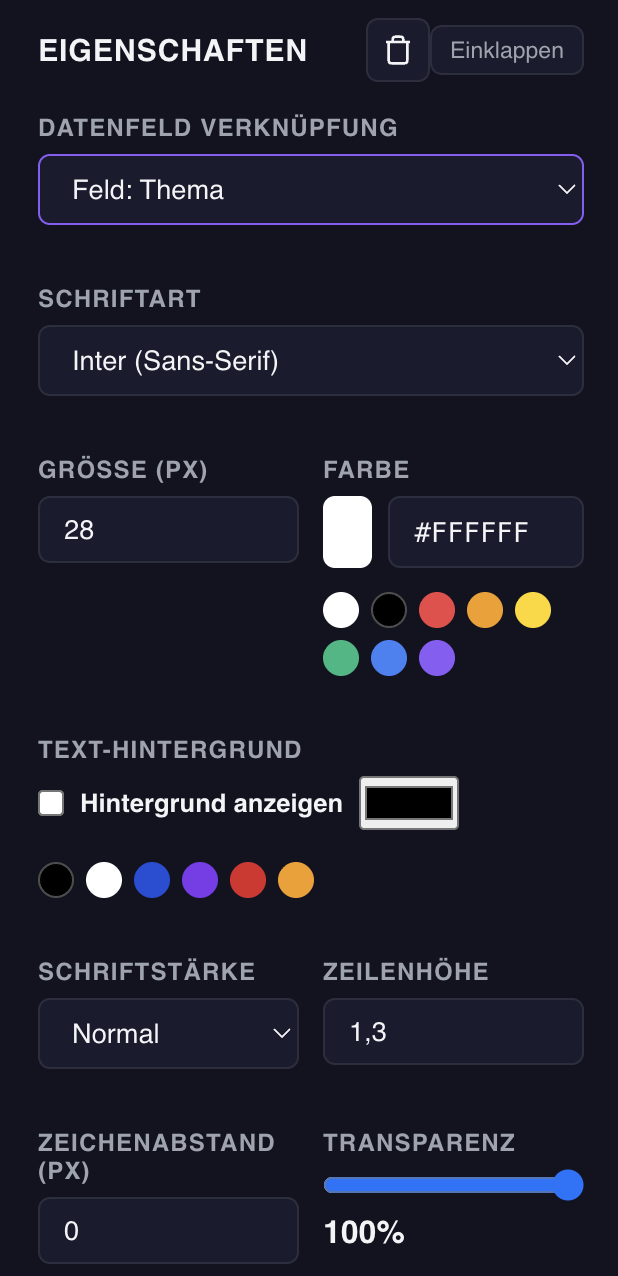
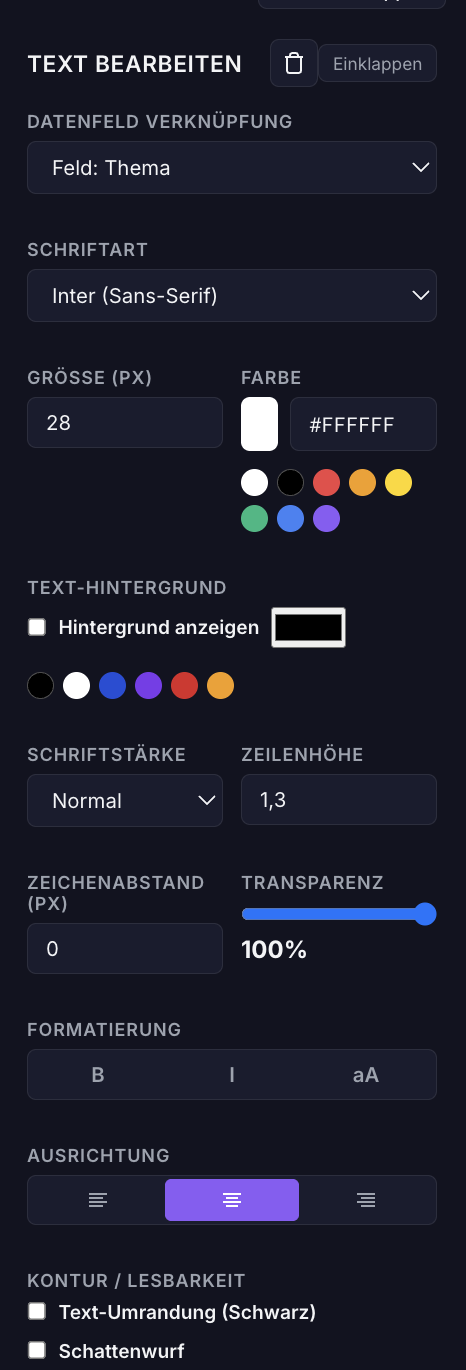
fix: publish updated text editing screenshot

diff --git a/index.html b/index.html
@@ -155,8 +155,8 @@
           </article>
           <article class="property-card">
             <div class="property-copy"><span>Text</span><h3>Datenfelder sichtbar gestalten.</h3><p>Verknüpfe Texte mit einer Datenspalte und lege Schrift, Farbe, Hintergrund, Abstände und Transparenz fest.</p></div>
-            <button class="preview-trigger property-shot" type="button" data-preview-src="./assets/text-properties.png" data-preview-title="Eigenschaften eines dynamischen Textfelds">
-              <img src="./assets/text-properties.png" alt="Texteigenschaften mit Datenfeld, Schriftart, Farben und Abständen">
+            <button class="preview-trigger property-shot" type="button" data-preview-src="./assets/text-properties.png" data-preview-title="Dynamischen Text bearbeiten">
+              <img src="./assets/text-properties.png" alt="Bereich Text bearbeiten mit Datenfeld, Schriftart, Farben, Formatierung und Ausrichtung">
             </button>
           </article>
           <article class="property-card video-property">

diff --git a/test-homepage.js b/test-homepage.js
@@ -43,6 +43,7 @@ const requiredText = [
   "Eigenschaften",
   "Clips präzise für die Serie vorbereiten.",
   "Clip trimmen und Video-Zuschnitt übernehmen",
+  "Dynamischen Text bearbeiten",
   "Export prüfen",
   "Impressum",
   "data-modal-open=\"imprint-modal\"",

diff --git a/README.md b/README.md
@@ -65,7 +65,7 @@ Es werden ausschließlich Bilder aus `homepage/assets/` verwendet:
 - `music-upload.png`: Upload unterstützter Musikformate
 - `music-controls.png`: Wiedergabe, Lautstärke, Track-Ausschnitt und Timeline
 - `image-properties.png`: Transformation, Zuschnitt und Farbkorrektur
-- `text-properties.png`: Datenfeldverknüpfung, Schrift und Textdarstellung
+- `text-properties.png`: Bereich „Text bearbeiten“ mit Datenfeldverknüpfung, Schrift, Formatierung und Textdarstellung
 - `video-controls.png`: Transformation, Wiedergabe, Ton, Loop und Lautstärke
 - `video-properties.png`: Clip-Trimmen, Video-Zuschnitt, Farblook und Weichzeichnen
 - `export-format.png`: Auswahl des Seitenverhältnisses
